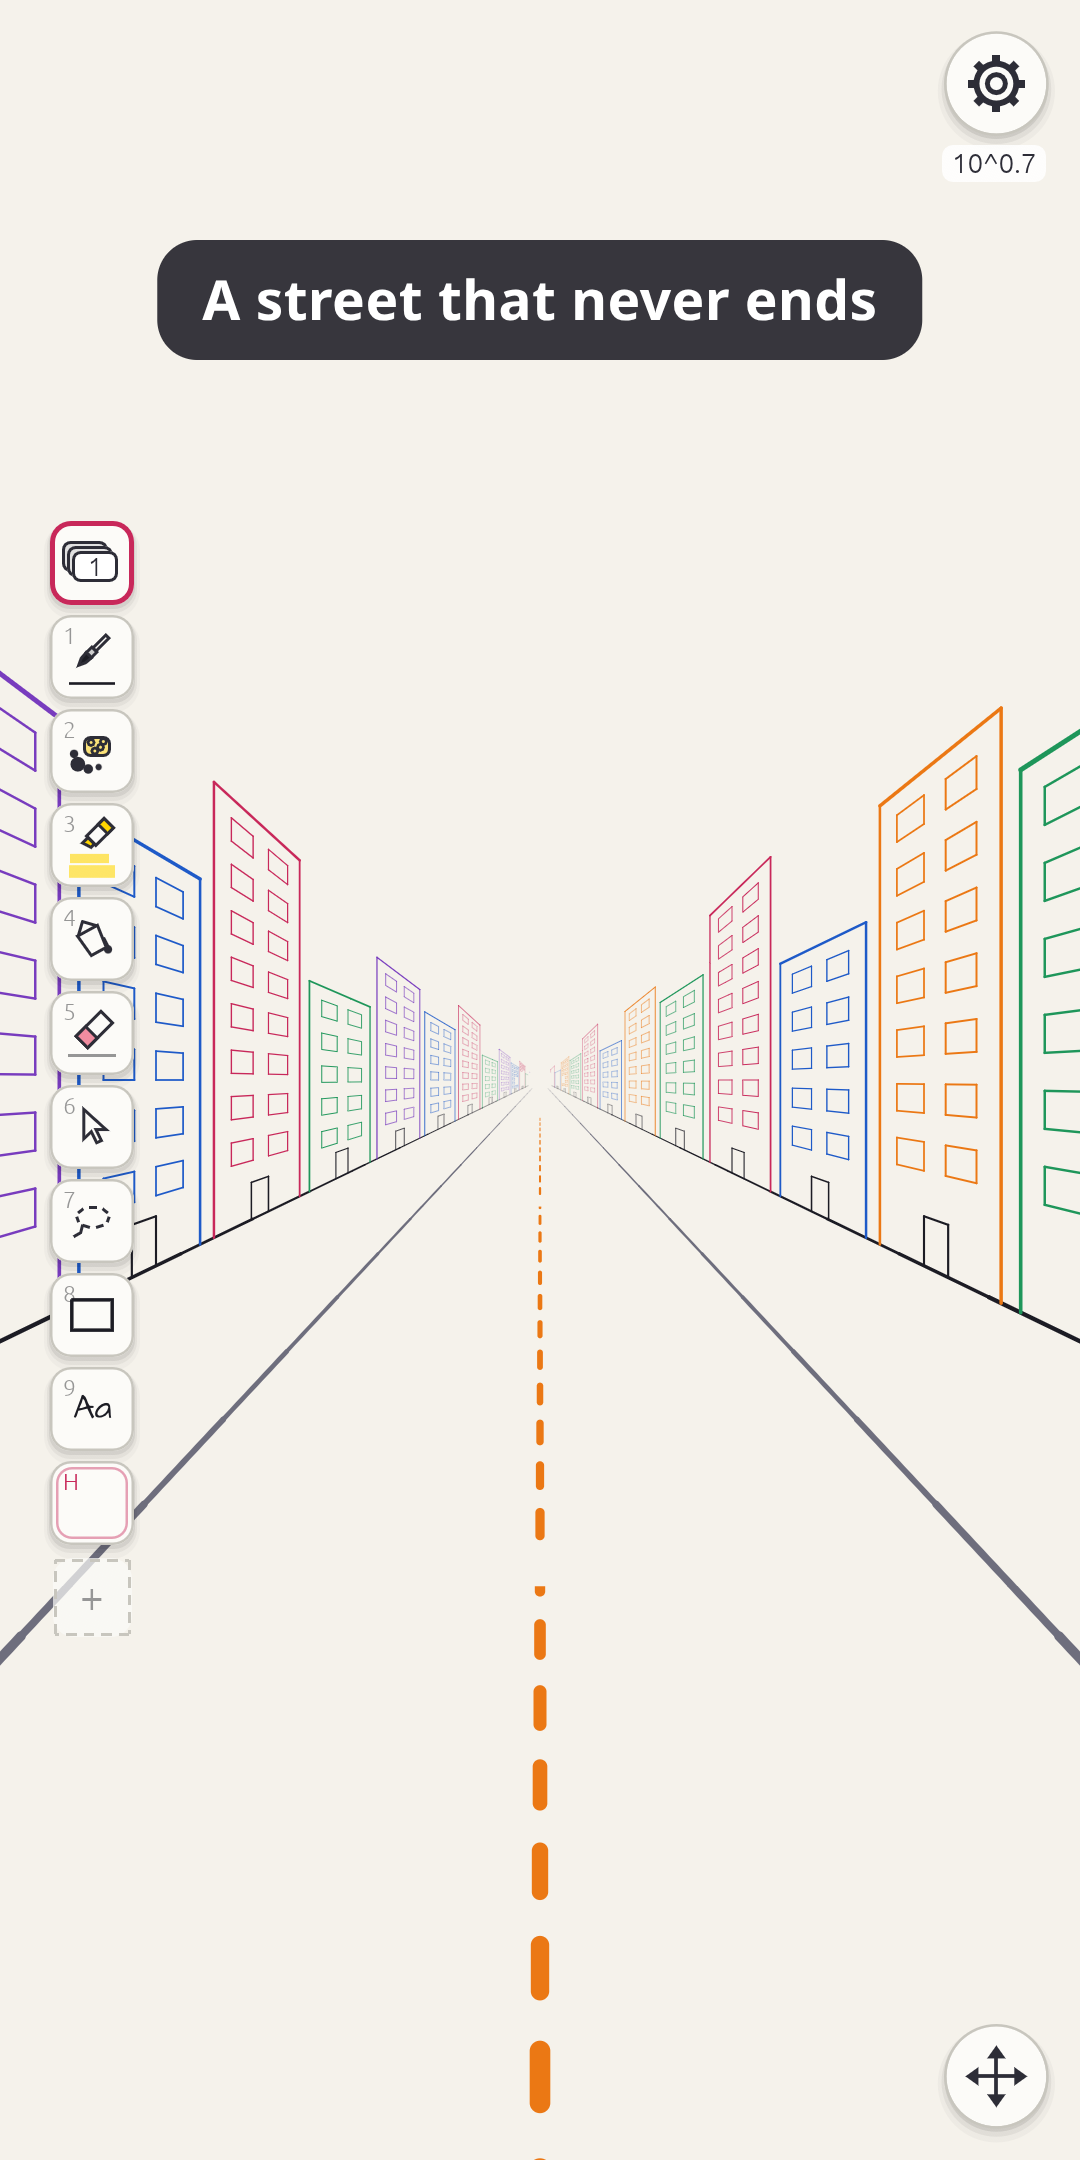
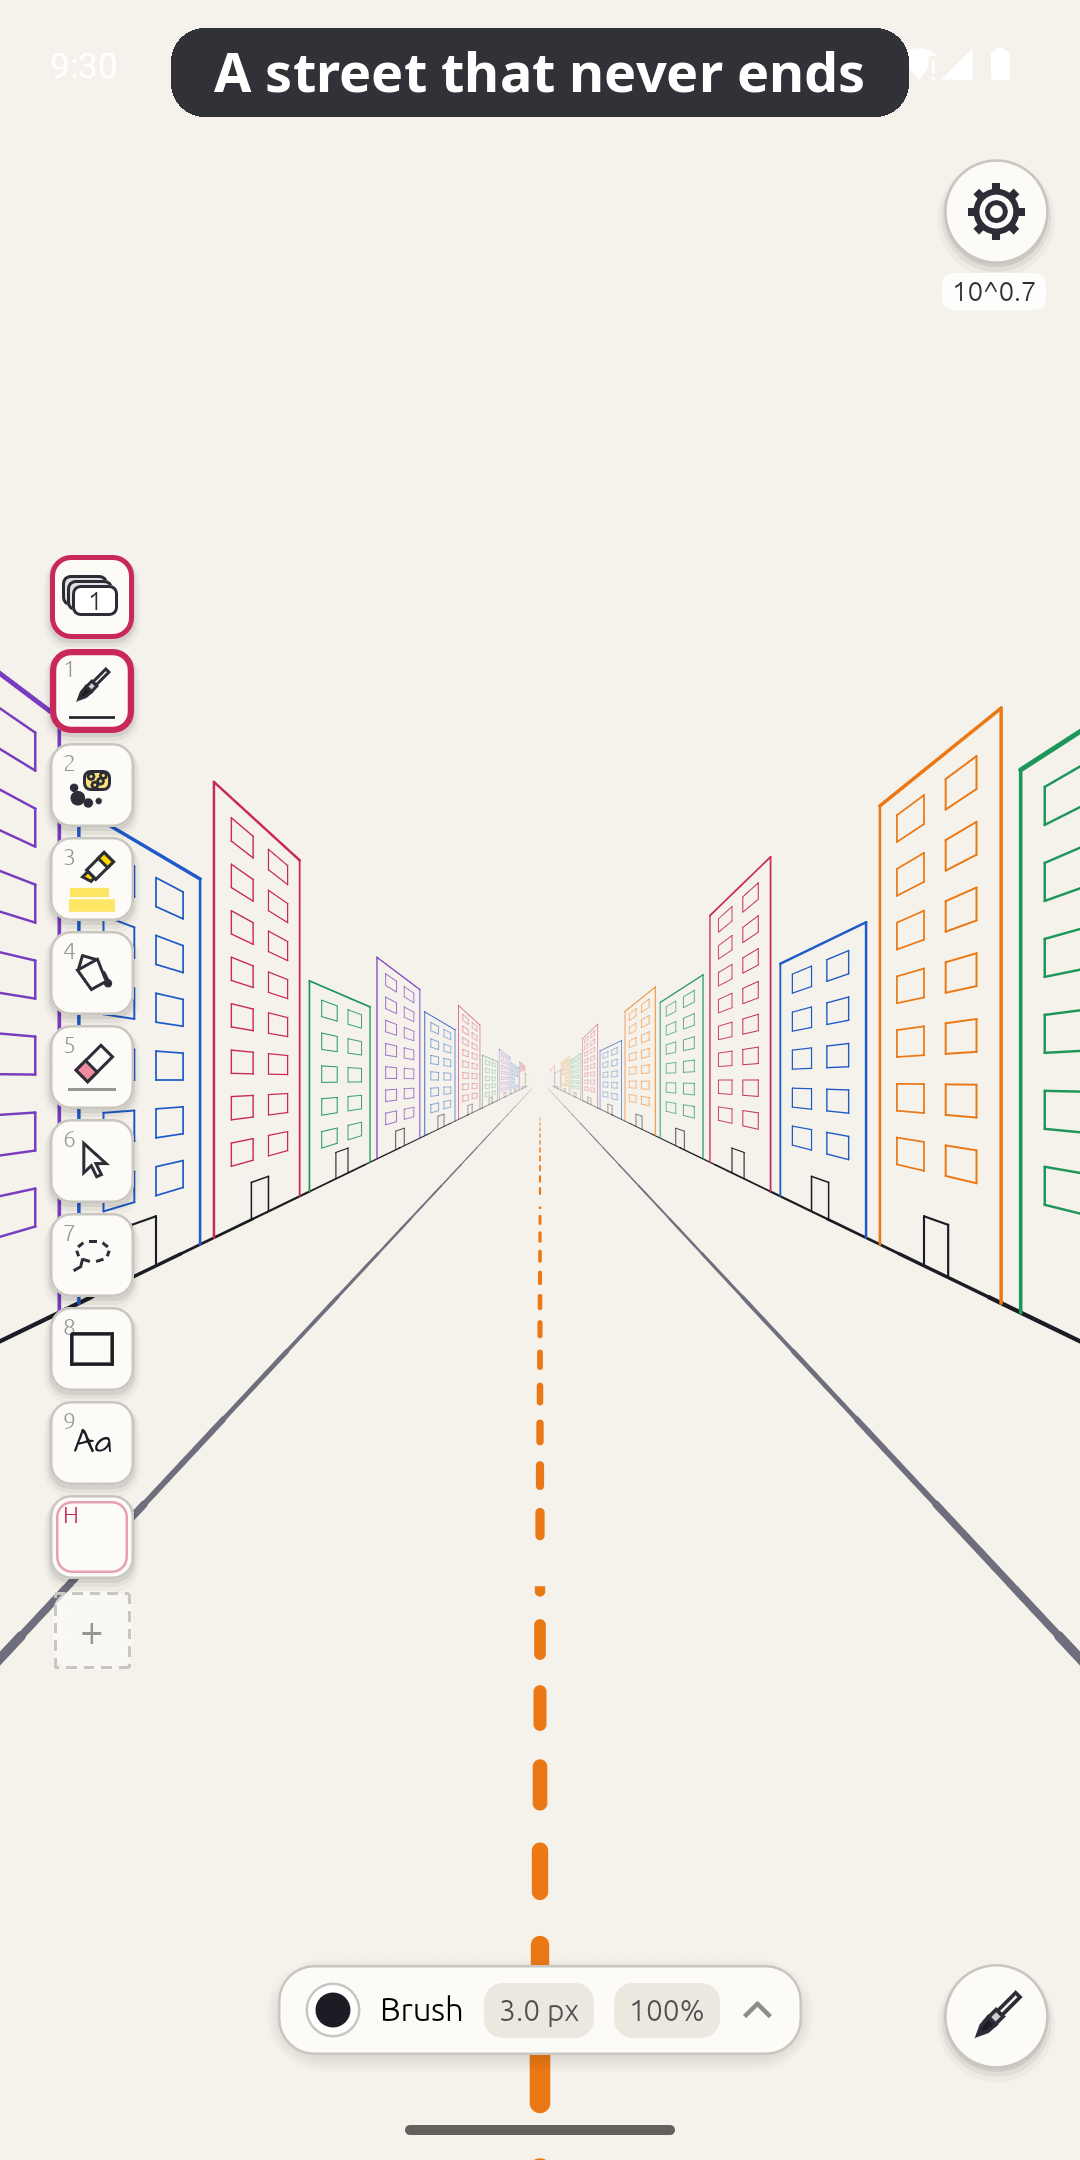
Android: menus reachable below the status bar; Play shots from the app
The Android window calls went to ndk_context's context, which is the
Application: getWindow failed (silently) every frame, so neither the
immersive mode nor the safe-area insets ever applied. The status bar
stayed over the settings button and took its taps, so Settings could not
be opened on a phone.

- android.rs: JNI on the Activity (AndroidApp::activity_as_ptr, read once
  at start); the insets now keep the controls below the status bar.
- Full screen is opt-in (Settings > UI): FLAG_FULLSCREEN set once before
  the event loop. WindowInsetsController needs the UI thread (no Java code
  here), and set_window_flags during the loop deadlocks on
  android-activity's lock.
- launchMode singleTask: a second launch intent no longer makes a second
  Activity (winit panics "RecreationAttempt" and the screen freezes).
- Google Play screenshots (phone, 7", 10") taken in the Android app in the
  emulator: demo canvases from an ignored test (demo::store_canvases),
  scenes from the page server (scripts/ad/play-canvases.mjs), captions by
  scripts/ad/play-shots.py; packaging/android/play/README.md.
- listing/whats-new.txt for 1.2.

Claude-Session: https://claude.ai/code/session_01FkKazycdTy45u1feGbYuar

diff --git a/crates/og-paper/src/android.rs b/crates/og-paper/src/android.rs
@@ -3,58 +3,67 @@
 // file, You can obtain one at https://mozilla.org/MPL/2.0/.
 // Copyright (c) 2026 OmegaGiven and contributors
 
-//! Android window chrome through JNI: immersive mode (system bars hidden,
-//! a swipe from the edge shows them for a moment) and the insets the app's
-//! own controls must stay inside (status bar, gesture/navigation bar,
-//! display cutout).
+//! Android window chrome: full screen (status bar hidden, a swipe from the
+//! top shows it for a moment, through the window flags) and, through JNI on
+//! the Activity, the insets the app's own controls must stay inside (status
+//! bar, gesture/navigation bar, display cutout).
 
 use jni::objects::{JObject, JValue};
 use jni::JNIEnv;
+use winit::platform::android::activity::AndroidApp;
+
+/// The Activity (`ndk_context`'s context is the Application, which has no
+/// window), with the app held so that reference stays valid: it lives as
+/// long as the `AndroidApp`. Read once, as `activity_as_ptr` takes the
+/// app's lock.
+static APP: std::sync::Mutex<Option<(AndroidApp, usize)>> = std::sync::Mutex::new(None);
+
+/// Remember the app (from `android_main`) for the window calls below.
+pub fn set_app(app: &AndroidApp) {
+    let activity = app.activity_as_ptr() as usize;
+    *APP.lock().unwrap_or_else(|e| e.into_inner()) = Some((app.clone(), activity));
+}
 
 fn with_env<T>(f: impl FnOnce(&mut JNIEnv, &JObject) -> jni::errors::Result<T>) -> Option<T> {
+    let raw = APP.lock().unwrap_or_else(|e| e.into_inner()).as_ref()?.1 as *mut std::ffi::c_void;
     let ctx = ndk_context::android_context();
     let vm = unsafe { jni::JavaVM::from_raw(ctx.vm().cast()) }.ok()?;
     let mut env = vm.attach_current_thread().ok()?;
-    let activity = unsafe { JObject::from_raw(ctx.context().cast()) };
+    // Borrowed, never deleted (see `AndroidApp::activity_as_ptr`).
+    let activity = unsafe { JObject::from_raw(raw.cast()) };
     let r = f(&mut env, &activity);
+    // Said once: on Android 10 (no `WindowInsets.Type`) every frame fails.
+    static SAID: std::sync::atomic::AtomicBool = std::sync::atomic::AtomicBool::new(false);
+    let first = || !SAID.swap(true, std::sync::atomic::Ordering::Relaxed);
     if env.exception_check().unwrap_or(false) {
+        if first() {
+            let _ = env.exception_describe();
+        }
         let _ = env.exception_clear();
         return None;
+    }
+    if let Err(e) = &r {
+        if first() {
+            log::warn!("android: {e}");
+        }
     }
     r.ok()
 }
 
-/// Hide (or show) the status and navigation bars. Swiping from an edge
-/// shows them transiently. (Android 11+; older ones keep their bars.)
-pub fn set_immersive(on: bool) {
-    with_env(|env, activity| {
-        let window = env
-            .call_method(activity, "getWindow", "()Landroid/view/Window;", &[])?
-            .l()?;
-        let ctl = env
-            .call_method(
-                &window,
-                "getInsetsController",
-                "()Landroid/view/WindowInsetsController;",
-                &[],
-            )?
-            .l()?;
-        if ctl.is_null() {
-            return Ok(());
-        }
-        // WindowInsets.Type.systemBars()
-        let bars = env
-            .call_static_method("android/view/WindowInsets$Type", "systemBars", "()I", &[])?
-            .i()?;
-        if on {
-            // BEHAVIOR_SHOW_TRANSIENT_BARS_BY_SWIPE
-            env.call_method(&ctl, "setSystemBarsBehavior", "(I)V", &[JValue::Int(2)])?;
-            env.call_method(&ctl, "hide", "(I)V", &[JValue::Int(bars)])?;
-        } else {
-            env.call_method(&ctl, "show", "(I)V", &[JValue::Int(bars)])?;
-        }
-        Ok(())
-    });
+/// Full screen (Settings, off by default): hide the status bar, a swipe
+/// from the top shows it for a moment. The window then starts below where
+/// the bar was (a black band), as only the UI thread can change how it fits
+/// the bars, and this app (no Java code) can't reach that thread; with the
+/// bar shown, the controls keep clear of it through `insets`.
+/// Called once from `android_main`, before the event loop runs:
+/// `set_window_flags` takes a lock the loop holds while it runs the app, so
+/// a later call would hang it. A change in Settings applies from the next
+/// start.
+pub fn set_fullscreen(app: &AndroidApp, on: bool) {
+    use winit::platform::android::activity::WindowManagerFlags as F;
+    if on {
+        app.set_window_flags(F::FULLSCREEN, F::empty());
+    }
 }
 
 /// Pixels the system bars and the display cutout take, whether shown now or

diff --git a/crates/og-paper/src/lib.rs b/crates/og-paper/src/lib.rs
@@ -1578,9 +1578,9 @@ impl App {
                 self.redraw();
             }
             Action::HideBars => {
+                // Android applies it from the next start (see
+                // `android::set_fullscreen`).
                 self.ui.fullscreen = !self.ui.fullscreen;
-                #[cfg(target_os = "android")]
-                android::set_immersive(self.ui.fullscreen);
                 let mut p = prefs::load();
                 p.insert(
                     "fullscreen".into(),
@@ -3886,8 +3886,6 @@ impl ApplicationHandler for App {
             }
         }
         self.ui.touch_ui = cfg!(any(target_os = "android", target_os = "ios")) || is_touch_web();
-        #[cfg(target_os = "android")]
-        android::set_immersive(self.ui.fullscreen);
         window.request_redraw();
     }
 
@@ -3944,12 +3942,8 @@ impl ApplicationHandler for App {
                 self.open_dropped(path, Some(self.cursor));
                 window.request_redraw();
             }
-            // The system gives the bars back after a dialog or a swipe away.
             #[cfg(target_os = "android")]
-            WindowEvent::Focused(true) => {
-                android::set_immersive(self.ui.fullscreen);
-                window.request_redraw();
-            }
+            WindowEvent::Focused(true) => window.request_redraw(),
             WindowEvent::ModifiersChanged(m) => self.mods = m.state(),
             WindowEvent::KeyboardInput { event, .. } => {
                 if let Key::Named(NamedKey::Space) = event.logical_key {
@@ -4054,7 +4048,9 @@ pub(crate) fn apply_prefs(ui: &mut UiState, prefs: &prefs::Prefs) {
     ui.radial_bar = prefs.get("radialbar").is_some_and(|v| v == "on");
     ui.dark = prefs.get("dark").is_some_and(|v| v == "on");
     ui.hints = prefs.get("hints").is_none_or(|v| v != "off");
-    ui.fullscreen = prefs.get("fullscreen").is_none_or(|v| v != "off");
+    // Android only, and off unless asked for: the window can't then reach
+    // under the status bar (see `android::set_fullscreen`).
+    ui.fullscreen = prefs.get("fullscreen").is_some_and(|v| v == "on");
     ui.spell = prefs.get("spell").is_none_or(|v| v != "off");
     spell::set_added(prefs.get("spellwords").map_or("", |s| s.as_str()));
     if ui.spell {
@@ -4371,6 +4367,8 @@ fn android_main(app: winit::platform::android::activity::AndroidApp) {
     if let Some(dir) = app.internal_data_path() {
         let _ = DATA_DIR.set(dir);
     }
+    android::set_app(&app);
+    android::set_fullscreen(&app, prefs::load().get("fullscreen").is_some_and(|v| v == "on"));
     launch::begin();
     let el = EventLoop::builder()
         .with_android_app(app)

diff --git a/scripts/ad/play-shots.py b/scripts/ad/play-shots.py
@@ -1,0 +1,51 @@
+#!/usr/bin/env python3
+"""Google Play screenshots from raw captures of the Android app.
+
+Takes screencaps of the real app (an emulator per size, see
+packaging/android/play/README.md), crops tablets' taskbar, adds the caption
+pill the App Store set uses, and writes 24-bit PNGs (Play wants no alpha) to
+packaging/android/play/<size>/NN-<name>.png.
+
+    python3 scripts/ad/play-shots.py RAWDIR
+RAWDIR holds phone/, tab7/ and tab10/, each with street.png, deep.png,
+diagrams.png, design.png and sketch.png.
+"""
+import sys
+from PIL import Image, ImageDraw, ImageFont
+
+RAW = sys.argv[1]
+OUT = "packaging/android/play"
+FONT = "/usr/share/fonts/noto/NotoSans-Bold.ttf"
+
+SHOTS = [  # (raw name, file name, caption)
+    ("street", "01-street", "A street that never ends"),
+    ("diagrams", "02-diagrams", "Diagrams that stay connected"),
+    ("design", "03-design", "Gradients, curves, words on a path"),
+    ("deep", "04-deep", "10²⁴ times deeper. Sharp."),
+    ("sketch", "05-tools", "Your tools, kept as you set them"),
+]
+# Per size: caption font px, caption top px (over the status bar, above the
+# settings button), and the height kept (tablets lose their taskbar, 120 px
+# at 320 dpi).
+SIZES = {
+    "phone": dict(font=54, top=28, keep=None),
+    "tab7": dict(font=60, top=28, keep=1800),
+    "tab10": dict(font=70, top=28, keep=2440),
+}
+
+for size, o in SIZES.items():
+    font = ImageFont.truetype(FONT, o["font"])
+    for raw, name, text in SHOTS:
+        im = Image.open(f"{RAW}/{size}/{raw}.png").convert("RGB")
+        if o["keep"]:
+            im = im.crop((0, 0, im.width, o["keep"]))
+        d = ImageDraw.Draw(im, "RGBA")
+        l, t, r, b = d.textbbox((0, 0), text, font=font)
+        px, py = round(o["font"] * 0.8), round(o["font"] * 0.42)
+        w, h = r - l + 2 * px, b - t + 2 * py
+        x0, y0 = (im.width - w) // 2, o["top"]
+        d.rounded_rectangle((x0, y0, x0 + w, y0 + h), radius=round(h * 0.38), fill=(28, 28, 36, 230))
+        d.text((x0 + px - l, y0 + py - t), text, font=font, fill=(255, 255, 255, 255))
+        path = f"{OUT}/{size}/{name}.png"
+        im.save(path, optimize=True)
+        print(path, im.size)

diff --git a/crates/og-paper/src/demo.rs b/crates/og-paper/src/demo.rs
@@ -735,6 +735,50 @@ mod tests {
     use super::*;
     use ogpaper_core::{query, DrawList, Params};
 
+    /// The try-mode demo as `.ogp` canvases for real-device store
+    /// screenshots (the native apps have no try mode): `street.ogp` looking
+    /// down the endless street and `deep.ogp` at "Zoom 10^24", framed for an
+    /// `OG_STORE_SIZE` = "W,H" physical-pixel screen, written to
+    /// `OG_STORE_OUT`. See packaging/android/play/README.md.
+    #[test]
+    #[ignore]
+    fn store_canvases() {
+        let out = std::path::PathBuf::from(std::env::var("OG_STORE_OUT").expect("OG_STORE_OUT"));
+        let size: Vec<f64> = std::env::var("OG_STORE_SIZE")
+            .expect("OG_STORE_SIZE")
+            .split(',')
+            .map(|v| v.trim().parse().unwrap())
+            .collect();
+        std::fs::create_dir_all(&out).unwrap();
+        for (file, mark, zoom) in [
+            ("street.ogp", "Endless street", 3.75),
+            ("deep.ogp", "Zoom 10^24", 1.0),
+        ] {
+            let mut app = crate::App::new(None);
+            app.headless = true;
+            app.size_override = Some([size[0], size[1]]);
+            let mut d = build();
+            let marks = d.bookmarks();
+            // Demo strokes have no permanent ids (the web snapshot needs
+            // none); a file skips strokes without one.
+            for s in &mut d.scene.strokes {
+                if s.uid == 0 {
+                    s.uid = crate::uid::new();
+                }
+            }
+            app.load_scene(d.scene, crate::home_camera());
+            app.objs = d.objs;
+            let b = marks.iter().find(|b| b.name == mark).expect(mark);
+            let mut cam = b.cam.clone();
+            cam.base_px = app.cam.base_px;
+            cam.zoom_at(app.view_px() / b.view_px * zoom, [0.0, 0.0]);
+            app.cam = cam;
+            app.ui.file_name = file.trim_end_matches(".ogp").into();
+            app.save_as(out.join(file));
+            assert!(out.join(file).exists(), "{file} not written");
+        }
+    }
+
     #[test]
     fn every_world_is_visible_when_framed() {
         let demo = build();

diff --git a/crates/og-paper/src/ui.rs b/crates/og-paper/src/ui.rs
@@ -1032,7 +1032,7 @@ impl Default for UiState {
             radial_bar: false,
             dark: false,
             hints: true,
-            fullscreen: true,
+            fullscreen: false,
             spell: true,
             perf: false,
             perf_text: String::new(),
@@ -9225,7 +9225,7 @@ fn layout_panel(ctx: &egui::Context, st: &mut UiState, actions: &mut Vec<Action>
                             ui,
                             st.fullscreen,
                             "Full screen",
-                            "Hide the status and navigation bars (swipe from an edge to show them)",
+                            "Hide the status bar (swipe down from the top to show it). Applies from the next start",
                             Action::HideBars,
                         );
                     }

diff --git a/packaging/android/play/README.md b/packaging/android/play/README.md
@@ -1,0 +1,37 @@
+# Google Play listing art
+
+What `scripts/play-listing.sh` uploads (en-US):
+
+| Path | What |
+| --- | --- |
+| `listing/title.txt`, `short-description.txt`, `full-description.txt` | store text |
+| `listing/whats-new.txt` | release notes for the next release (`scripts/play-release.sh --notes`) |
+| `icon-512.png`, `feature-graphic.png` (1024 x 500) | `make-art.py`, from the app icon |
+| `phone/` (1080 x 2160), `tab7/` (1200 x 1800), `tab10/` (1600 x 2440) | screenshots of the real Android app |
+
+## Screenshots (task #884)
+
+Taken in the Android app itself, in the emulator (`/opt/android-sdk`, system image
+android-34 google_apis x86_64, which runs the arm64 app), one AVD per size:
+phone 1080 x 2160 at 400 dpi, 7" 1200 x 1920 and 10" 1600 x 2560 at 320 dpi. Tablets lose
+their taskbar (120 px, it shows other apps' icons) in the crop.
+
+1. **Canvases.** The native apps have no try mode, so the demo is written out as files:
+   `OG_STORE_OUT=out/storecanv/phone OG_STORE_SIZE=1080,2160 cargo test --release -p og-paper
+   --lib store_canvases -- --ignored` gives `street.ogp` and `deep.ogp` framed for that screen.
+   The other scenes are the App Store ones (`tests/ui/store-scenes.mjs`) built on a page
+   server: `og-paper --serve-dir DIR --port 8995`, then
+   `node scripts/ad/play-canvases.mjs ws://127.0.0.1:8995/api "$(cat DIR/server.key)" W H`
+   with W x H the screen in **physical pixels** (the native home view is 1 point per pixel).
+   Checkpoint each page (`sqlite3 X.ogp 'PRAGMA wal_checkpoint(TRUNCATE)'`) before copying it.
+2. **Into the app.** `adb root`, push the five `.ogp` files to
+   `/data/data/app.ogpaper/files/canvases/` (chown to the app's uid, `restorecon`), with
+   mtimes street, deep, diagrams, design, sketch (newest first: Pages lists by date).
+   Status bar: SystemUI demo mode (clock 9:30, full battery).
+3. **Capture.** For each: fresh app data, Settings > Pages > the canvas > Open, close the
+   panel, `adb exec-out screencap -p`. Sketch: tap the toolbar switcher so the toolbars and
+   inventory show.
+4. **Compose.** `python3 scripts/ad/play-shots.py RAWDIR` crops and adds the captions.
+
+The older web-rendered set (`tests/ui/features/store-play.mjs`) still works for a quick
+refresh, but its UI is the browser's, not the app's.

diff --git a/docs/CODEMAP.md b/docs/CODEMAP.md
@@ -24,7 +24,7 @@ Inside `crates/og-paper/src`:
 | `net.rs` | live connections: host/guest, relay links, WebSocket client (bearer for accounts) |
 | `relay.rs`, `hub.rs`, `hubconsole.rs`, `hubpage.rs`, `pages.rs` | self-hosted relay / page server and the Pages panel's servers |
 | `account.rs` | native accounts: OG Studio (poll sign-in) and vaults (PKCE + loopback), profiles, tokens ([VAULT.md](VAULT.md), [NATIVE-SIGN-IN.md](NATIVE-SIGN-IN.md)) |
-| `android.rs` | Android only (JNI): immersive mode (system bars hidden, edge swipe shows them) and the bar/cutout insets fed to egui as the safe area; back button = Esc |
+| `android.rs` | Android only: the bar/cutout insets (JNI on the Activity) fed to egui as the safe area, so controls sit below the status bar; opt-in full screen (window flag, set once at start); back button = Esc |
 | `egui_io.rs` | winit events into egui: `egui-winit` natively, its own translator on the web. Touch: every build hit-tests where a finger lands (web here, Android/iOS in `lib.rs` `window_event`), so a tap on a menu or panel goes to it, not to the canvas (which would close the menu) |
 | `web.rs` | the wasm bridge to `web/app/og-web.js` (`og_*` exports, events) |
 | `mcp.rs`, `script.rs`, `plugin.rs` | MCP server, commands API, plugins ([MCP.md](MCP.md), [PLUGINS.md](PLUGINS.md)) |
